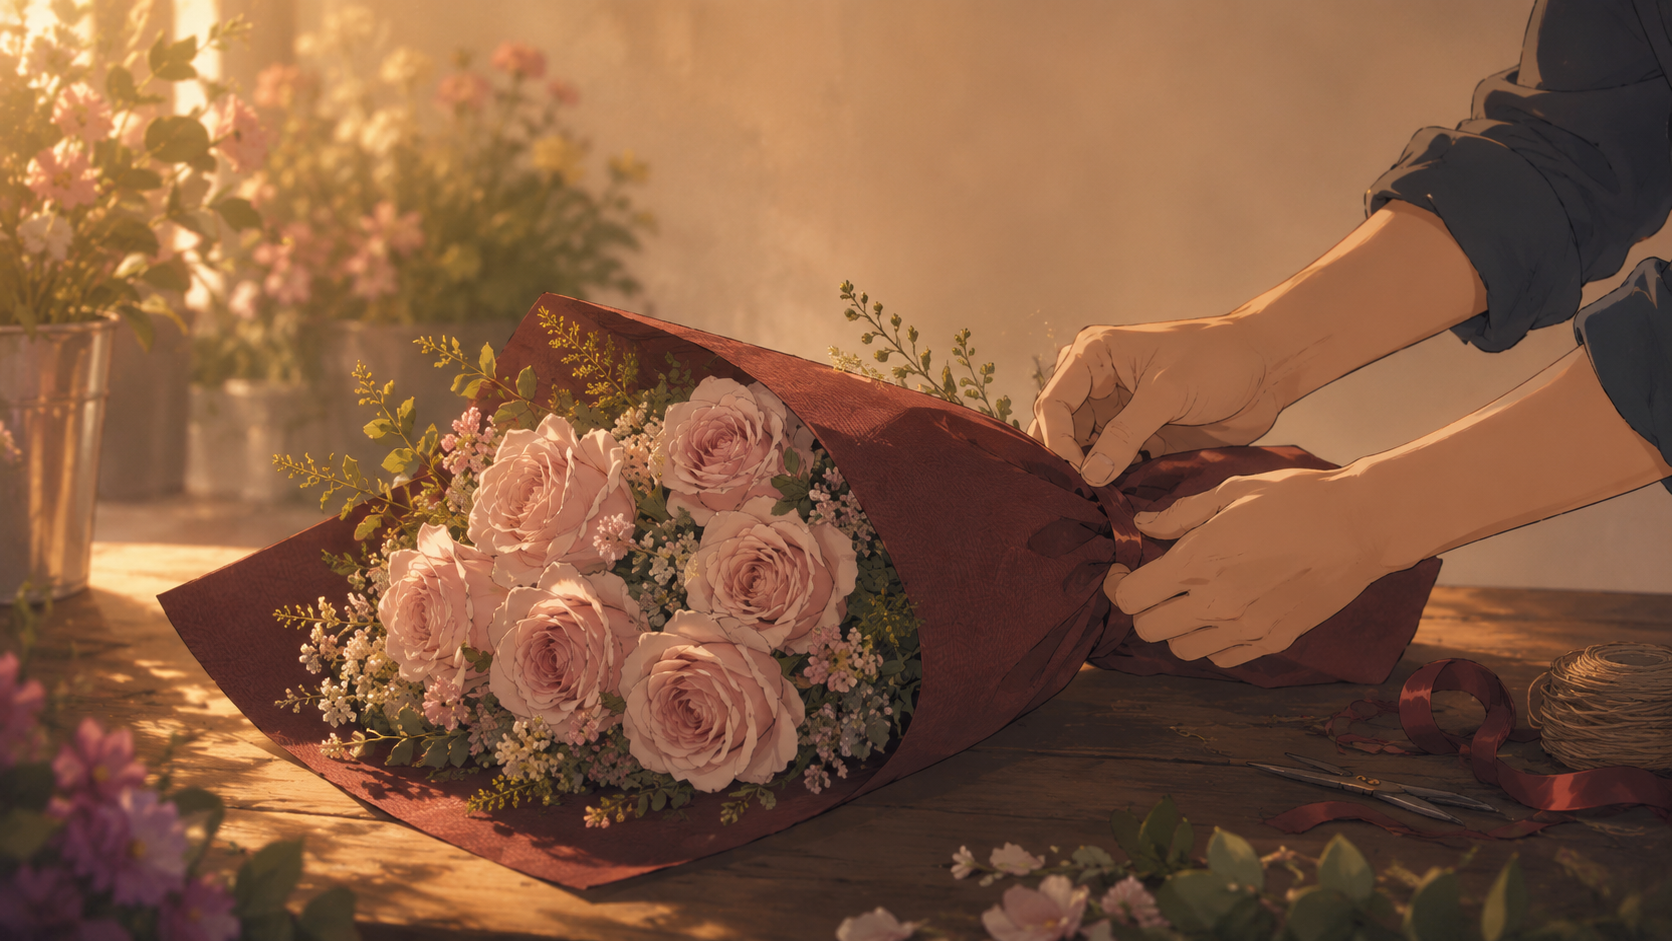
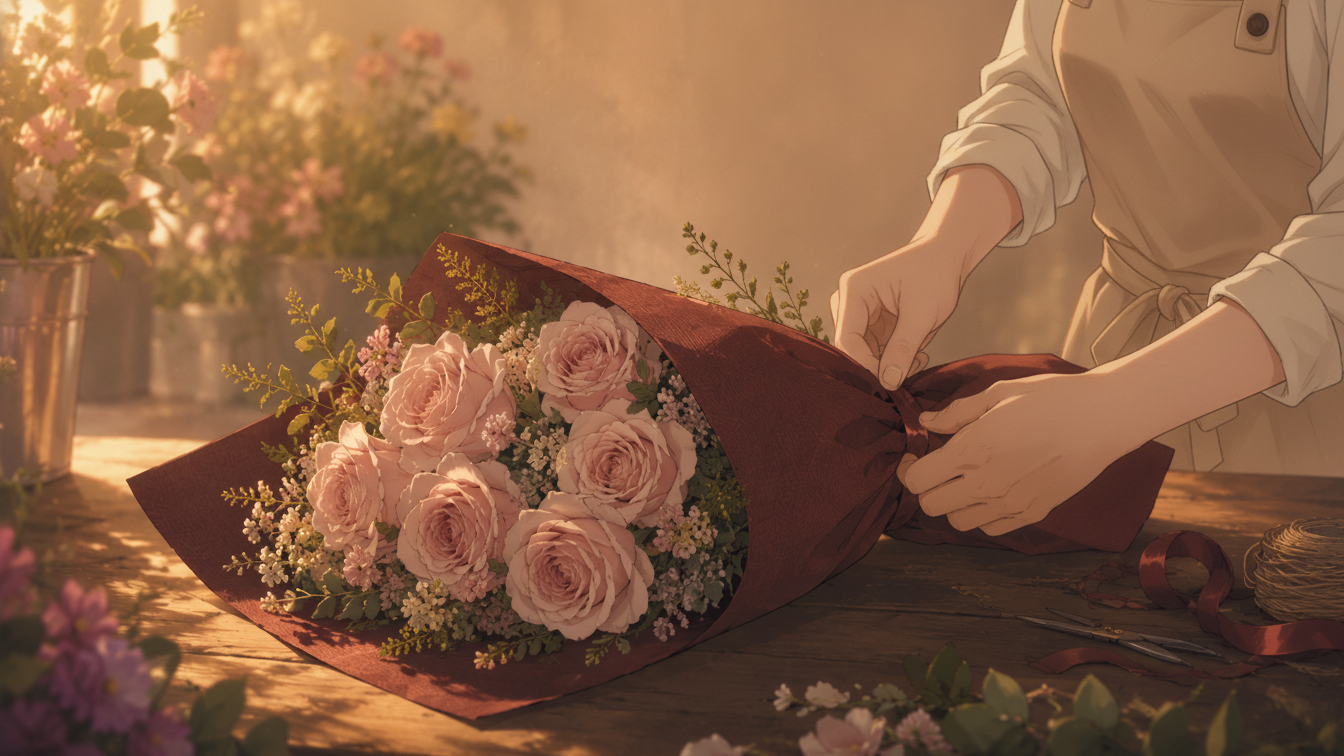
花に心 最終版:動画リンク更新＋A3を女性店員の手元に差替

diff --git a/hananikokoro-storyboard.html b/hananikokoro-storyboard.html
@@ -43,7 +43,7 @@
 </header>
 
 <div class="wrap">
-  <div class="video"><a href="https://youtu.be/xA-lEfVnurs" target="_blank">▶ 完成動画を見る（YouTube）</a></div>
+  <div class="video"><a href="https://youtu.be/UmCqKBY5F-M" target="_blank">▶ 完成動画を見る（YouTube）</a></div>
 
   <div class="meta">
     <div><b>目的</b>：来店・電話予約を増やす（名古屋市守山区の地域集客）</div>
@@ -70,22 +70,22 @@
     </ul>
   </div>
 
-  <div class="scene"><div class="frame"><span class="num">HOOK</span><img src="mockup_gpt/HOOK.png"></div>
+  <div class="scene"><div class="frame"><span class="num">HOOK</span><img src="hananikokoro-images/HOOK.png"></div>
     <div class="desc"><span class="role">① つかみ／ベネフィット</span><br>受け取る笑顔（ベネフィット先出し）<br><span class="telop">テロップ：その人へ、"ありがとう"の花を。</span></div></div>
 
   <div class="ep"><span>エピソード①　結婚記念日（男性）</span></div>
-  <div class="scene"><div class="frame"><span class="num">A1</span><img src="mockup_gpt/A1_man_arrive.png"></div><div class="desc"><span class="role">② 共感</span><br>工事帰りの男性が来店<br><span class="telop">テロップ：記念日、何を贈ろう…</span></div></div>
-  <div class="scene"><div class="frame"><span class="num">A2</span><img src="mockup_gpt/A2_man_choose.png"></div><div class="desc"><span class="role">③ 解決（選ぶ）</span><br>店内で花を選ぶ<br><span class="telop">テロップ："これにしよう"</span></div></div>
-  <div class="scene"><div class="frame"><span class="num">A3</span><img src="mockup_gpt/A3_rose_make.png"></div><div class="desc"><span class="role">③ 解決（作る）</span><br>店主が手元でバラ束を作る<br><span class="telop">テロップ：おまかせで、想いをかたちに</span></div></div>
-  <div class="scene"><div class="frame"><span class="num">A4</span><img src="mockup_gpt/A4_give_wife.png"></div><div class="desc"><span class="role">① 回収（感動）</span><br>自宅で妻に渡す→笑顔<br><span class="telop">テロップ：10年分の、ありがとう</span></div></div>
+  <div class="scene"><div class="frame"><span class="num">A1</span><img src="hananikokoro-images/A1_man_arrive.png"></div><div class="desc"><span class="role">② 共感</span><br>工事帰りの男性が来店<br><span class="telop">テロップ：記念日、何を贈ろう…</span></div></div>
+  <div class="scene"><div class="frame"><span class="num">A2</span><img src="hananikokoro-images/A2_man_choose.png"></div><div class="desc"><span class="role">③ 解決（選ぶ）</span><br>店内で花を選ぶ<br><span class="telop">テロップ："これにしよう"</span></div></div>
+  <div class="scene"><div class="frame"><span class="num">A3</span><img src="hananikokoro-images/A3_rose_make.png"></div><div class="desc"><span class="role">③ 解決（作る）</span><br>店主が手元でバラ束を作る<br><span class="telop">テロップ：おまかせで、想いをかたちに</span></div></div>
+  <div class="scene"><div class="frame"><span class="num">A4</span><img src="hananikokoro-images/A4_give_wife.png"></div><div class="desc"><span class="role">① 回収（感動）</span><br>自宅で妻に渡す→笑顔<br><span class="telop">テロップ：10年分の、ありがとう</span></div></div>
 
   <div class="ep"><span>エピソード②　還暦祝い（娘・孫から母へ）</span></div>
-  <div class="scene"><div class="frame"><span class="num">B1</span><img src="mockup_gpt/B1_family_choose.png"></div><div class="desc"><span class="role">③ 解決（選ぶ）</span><br>娘＋孫2人が店内で選ぶ<br><span class="telop">テロップ：おばあちゃん、これ好きかな？</span></div></div>
-  <div class="scene"><div class="frame"><span class="num">B2</span><img src="mockup_gpt/B2_dahlia_make.png"></div><div class="desc"><span class="role">③ 解決（作る）</span><br>店主が手元でダリア束を作る<br><span class="telop">テロップ："還暦、おめでとう"</span></div></div>
-  <div class="scene"><div class="frame"><span class="num">B3</span><img src="mockup_gpt/B3_give_grandma.png"></div><div class="desc"><span class="role">① 回収（クライマックス）</span><br>おばあちゃんの家で渡す→涙の笑顔<br><span class="telop">テロップ：人生の節目に、花が寄り添う</span></div></div>
+  <div class="scene"><div class="frame"><span class="num">B1</span><img src="hananikokoro-images/B1_family_choose.png"></div><div class="desc"><span class="role">③ 解決（選ぶ）</span><br>娘＋孫2人が店内で選ぶ<br><span class="telop">テロップ：おばあちゃん、これ好きかな？</span></div></div>
+  <div class="scene"><div class="frame"><span class="num">B2</span><img src="hananikokoro-images/B2_dahlia_make.png"></div><div class="desc"><span class="role">③ 解決（作る）</span><br>店主が手元でダリア束を作る<br><span class="telop">テロップ："還暦、おめでとう"</span></div></div>
+  <div class="scene"><div class="frame"><span class="num">B3</span><img src="hananikokoro-images/B3_give_grandma.png"></div><div class="desc"><span class="role">① 回収（クライマックス）</span><br>おばあちゃんの家で渡す→涙の笑顔<br><span class="telop">テロップ：人生の節目に、花が寄り添う</span></div></div>
 
   <div class="ep"><span>締め（CTA）</span></div>
-  <div class="scene"><div class="frame"><span class="num">CTA</span><img src="mockup_gpt/CTA.png"></div>
+  <div class="scene"><div class="frame"><span class="num">CTA</span><img src="hananikokoro-images/CTA.png"></div>
     <div class="desc"><span class="role">④ 根拠＋⑤ オファー</span><br>店構え＋店名・住所・TEL 052-990-0487<br><span class="telop">テロップ：お電話一本でご予約を。</span></div></div>
 
 </div>
